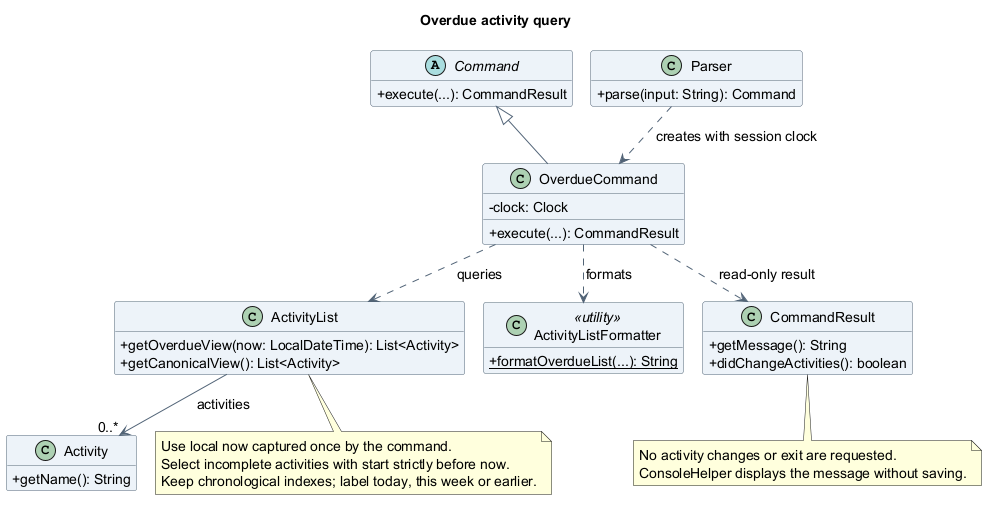
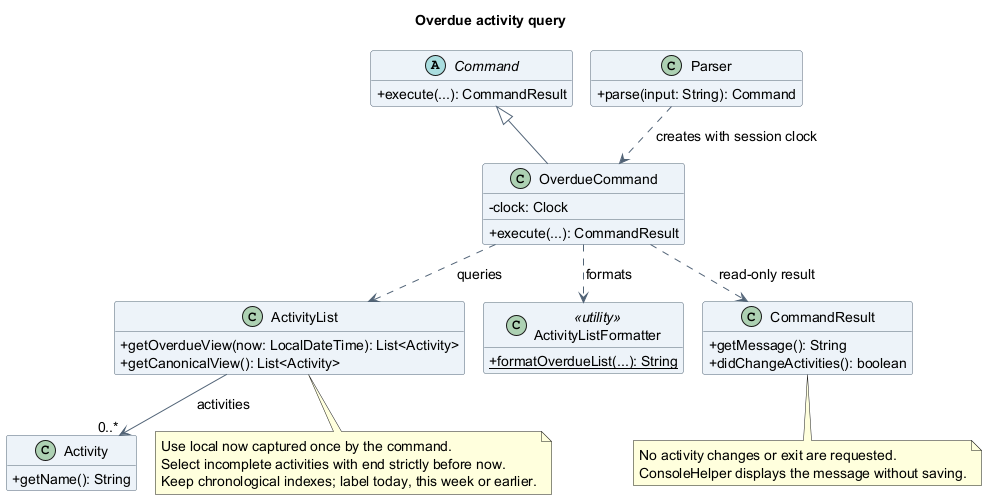
fix(overdue): wait until an activity has ended
Use the full end date and time for overdue filtering so ongoing activities are not labelled overdue. Preserve strict boundaries, completion filtering, and chronological indexes; cover exact-end and just-after-end cases and align help, guides, and rendered diagrams with the new rule.

diff --git a/src/test/java/seedu/unienable/command/activity/OverdueCommandTest.java b/src/test/java/seedu/unienable/command/activity/OverdueCommandTest.java
@@ -38,13 +38,14 @@ class OverdueCommandTest {
     };
 
     @Test
-    void execute_usesStrictStartBoundaryAndExcludesCompletedActivities() throws Exception {
+    void execute_usesStrictEndBoundaryAndExcludesCompletedActivities() throws Exception {
         add("Tomorrow", "2026-10-22", "09:00", 10);
         add("Sunday", "2026-10-18", "08:00", 9);
         add("Exact now", "2026-10-21", "12:00", 13);
         add("Monday", "2026-10-19", "08:00", 9);
         add("Today done", "2026-10-21", "09:00", 10);
-        add("Today past", "2026-10-21", "11:00", 12);
+        add("Today past", "2026-10-21", "10:30", 11);
+        add("Ending now", "2026-10-21", "11:00", 12);
         add("In progress", "2026-10-21", "11:30", 13);
         add("Future today", "2026-10-21", "13:00", 14);
         activities.getActivities().stream()
@@ -53,21 +54,36 @@ class OverdueCommandTest {
 
         String message = parser.parse("overdue").execute(activities, noWrites).getMessage();
 
-        assertTrue(message.startsWith("Overdue activities (started before now):"), message);
+        assertTrue(message.startsWith("Overdue activities (ended before now):"), message);
         assertTrue(message.contains("1. [OVERDUE EARLIER] Sunday (2026-10-18, 08:00-09:00)"),
                 message);
         assertTrue(message.contains("2. [OVERDUE WEEK] Monday (2026-10-19, 08:00-09:00)"),
                 message);
-        assertTrue(message.contains("4. [OVERDUE TODAY] Today past (2026-10-21, 11:00-12:00)"),
+        assertTrue(message.contains("4. [OVERDUE TODAY] Today past (2026-10-21, 10:30-11:00)"),
                 message);
-        assertTrue(message.contains("5. [OVERDUE TODAY] In progress (2026-10-21, 11:30-13:00)"),
-                message);
+        assertFalse(message.contains("In progress"), message);
+        assertFalse(message.contains("Ending now"), message);
         assertFalse(message.contains("Today done"), message);
         assertFalse(message.contains("Exact now"), message);
         assertFalse(message.contains("Future today"), message);
         assertFalse(message.contains("Tomorrow"), message);
         assertFalse(message.contains("[X]"), message);
         assertFalse(parser.parse("overdue").execute(activities, noWrites).didChangeActivities());
+    }
+
+    @Test
+    void execute_onlyBecomesOverdueAfterEndTime() throws Exception {
+        activities.addActivity(new Activity("Boundary", LocalDate.parse("2026-10-21"),
+                LocalTime.parse("09:00"), LocalTime.parse("09:30"), DemandLevel.LOW, false));
+        for (String time : new String[]{"09:15:00", "09:30:00", "09:30:01"}) {
+            Parser timed = new Parser(Clock.fixed(Instant.parse("2026-10-21T" + time + "Z"), ZoneOffset.UTC));
+            String message = timed.parse("overdue").execute(activities, noWrites).getMessage();
+            if (time.equals("09:30:01")) {
+                assertTrue(message.contains("1. [OVERDUE TODAY] Boundary"), message);
+            } else {
+                assertTrue(message.endsWith("[WARNING] No overdue activities."), message);
+            }
+        }
     }
 
     @Test

diff --git a/src/main/java/seedu/unienable/command/common/HelpCommand.java b/src/main/java/seedu/unienable/command/common/HelpCommand.java
@@ -28,7 +28,7 @@ public class HelpCommand extends Command {
               view today          Show today's schedule, summary, and rating table
               view tomorrow       Show tomorrow's schedule, summary, and rating table
               view week           Show today and the following six days
-              overdue             Show incomplete activities that have started
+              overdue             Show incomplete activities that have ended
               next                Show the earliest upcoming incomplete activity
 
             COMPLETION AND DELETION
@@ -167,14 +167,14 @@ public class HelpCommand extends Command {
                       view week
                     """.stripTrailing()),
             Map.entry("overdue", """
-                    OVERDUE - Find incomplete activities that have started
+                    OVERDUE - Find incomplete activities that have ended
 
                     Usage:
                       overdue
 
                     Details:
-                      - Shows incomplete activities with a start strictly before the current time.
-                      - Includes activities still in progress; excludes completed activities.
+                      - Shows incomplete activities with an end strictly before the current time.
+                      - Excludes ongoing and completed activities, including activities ending exactly now.
                       - Results use chronological indexes and labels for today, this week, or earlier.
                       - Accepts no arguments and does not mark or modify any activity.
 

diff --git a/src/main/java/seedu/unienable/model/ActivityList.java b/src/main/java/seedu/unienable/model/ActivityList.java
@@ -144,17 +144,17 @@ public class ActivityList {
 
     //@@author officialasyrafrahim
     /**
-     * Returns incomplete activities whose start is strictly before the supplied
+     * Returns incomplete activities whose end is strictly before the supplied
      * local time. The result keeps canonical order for stable chronological ties.
      *
-     * @param now local date and time used for the strict start boundary.
+     * @param now local date and time used for the strict end boundary.
      * @return immutable overdue view
      */
     public List<Activity> getOverdueView(LocalDateTime now) {
         Objects.requireNonNull(now);
         List<Activity> view = activities.stream()
                 .filter(activity -> !activity.isDone())
-                .filter(activity -> LocalDateTime.of(activity.getDate(), activity.getStartTime()).isBefore(now))
+                .filter(activity -> LocalDateTime.of(activity.getDate(), activity.getEndTime()).isBefore(now))
                 .sorted(CANONICAL_ORDER)
                 .toList();
         assert isSorted(view, CANONICAL_ORDER) : "Overdue view must stay in canonical order.";

diff --git a/src/test/java/seedu/unienable/ui/activity/ActivityListFormatterTest.java b/src/test/java/seedu/unienable/ui/activity/ActivityListFormatterTest.java
@@ -89,12 +89,12 @@ class ActivityListFormatterTest {
         String message = ActivityListFormatter.formatOverdueList(List.of(earlier, mondayGym, today),
                 canonicalView, LocalDateTime.parse("2026-10-13T12:00:00"));
 
-        assertEquals("Overdue activities (started before now):\n"
+        assertEquals("Overdue activities (ended before now):\n"
                 + "1. [OVERDUE EARLIER] Earlier (2026-10-05, 09:00-10:00) [LOW] [ ]\n"
                 + "2. [OVERDUE WEEK] Gym session (2026-10-12, 07:00-09:00) [HIGH] [ ]\n"
                 + "3. [OVERDUE TODAY] Today (2026-10-13, 09:00-10:00) [LOW] [ ]",
                 message);
-        assertEquals("Overdue activities (started before now):\n[WARNING] No overdue activities.",
+        assertEquals("Overdue activities (ended before now):\n[WARNING] No overdue activities.",
                 ActivityListFormatter.formatOverdueList(List.of(), canonicalView,
                         LocalDateTime.parse("2026-10-13T12:00:00")));
     }

diff --git a/src/test/java/seedu/unienable/command/common/HelpCommandTest.java b/src/test/java/seedu/unienable/command/common/HelpCommandTest.java
@@ -67,7 +67,7 @@ class HelpCommandTest {
             {"find", "find KEYWORD", "literal substring", "find project meeting"},
             {"list", "list priority", "list demand groups HIGH, MEDIUM, then LOW", "list demand"},
             {"view", "view week", "today and the following six days", "view tomorrow"},
-            {"overdue", "overdue", "start strictly before the current time", "overdue"},
+            {"overdue", "overdue", "end strictly before the current time", "overdue"},
             {"next", "next", "start is strictly after the current time", "next"},
             {"mark", "mark INDEX", "already completed activity warns", "mark 1"},
             {"unmark", "unmark INDEX", "already incomplete activity warns", "unmark 1"},

diff --git a/src/main/java/seedu/unienable/ui/activity/ActivityListFormatter.java b/src/main/java/seedu/unienable/ui/activity/ActivityListFormatter.java
@@ -22,7 +22,7 @@ public final class ActivityListFormatter {
 
     private static final String PRIORITY_LIST_HEADING = "Activities by priority (highest first):";
 
-    private static final String OVERDUE_LIST_HEADING = "Overdue activities (started before now):";
+    private static final String OVERDUE_LIST_HEADING = "Overdue activities (ended before now):";
 
     private static final String NEXT_HEADING = "Next activity (earliest upcoming):";
 

diff --git a/src/main/java/seedu/unienable/command/activity/OverdueCommand.java b/src/main/java/seedu/unienable/command/activity/OverdueCommand.java
@@ -15,7 +15,7 @@ import seedu.unienable.storage.Storage;
 import seedu.unienable.ui.activity.ActivityListFormatter;
 
 /**
- * Lists incomplete activities whose start is strictly before the current local
+ * Lists incomplete activities whose end is strictly before the current local
  * time, in chronological order with labels for today, this week, and earlier.
  */
 public class OverdueCommand extends Command {

diff --git a/docs/UserGuide.md b/docs/UserGuide.md
@@ -615,23 +615,23 @@ Indexes refer to the chronological 'list' order.
 
 ### Viewing overdue activities: `overdue`
 
-`overdue` shows incomplete activities whose start is strictly before the current
-local time. An activity that has started but not ended is included. Completed
-activities and activities starting exactly now or later are excluded.
+`overdue` shows incomplete activities whose end is strictly before the current
+local time. Ongoing and completed activities are excluded. An activity ending
+exactly now becomes overdue only after that time has passed.
 
 Each row keeps its chronological `list` index and adds one label:
 
 | Label | Meaning |
 | --- | --- |
-| `OVERDUE TODAY` | Starts earlier today. |
-| `OVERDUE WEEK` | Starts on an earlier day in the current Monday-to-Sunday week. |
-| `OVERDUE EARLIER` | Starts before the current week's Monday. |
+| `OVERDUE TODAY` | Ended earlier today. |
+| `OVERDUE WEEK` | Ended on an earlier day in the current Monday-to-Sunday week. |
+| `OVERDUE EARLIER` | Ended before the current week's Monday. |
 
 Using the same five-activity schedule, assume the current local time is
-2026-12-04 at 15:00. The containing week starts on Monday, 2026-11-30:
+2026-12-04 at 15:01. The containing week starts on Monday, 2026-11-30:
 
 ```text
-Overdue activities (started before now):
+Overdue activities (ended before now):
 1. [OVERDUE WEEK] CS2113 tutorial (2026-12-01, 10:00-11:00) [MEDIUM] [ ]
 2. [OVERDUE WEEK] Project meeting (2026-12-02, 14:00-15:00) [HIGH] [ ]
 3. [OVERDUE WEEK] Planning and/or review (2026-12-03, 10:00-11:00) [LOW] [ ]
@@ -647,7 +647,7 @@ the current local time. Activities starting exactly now and completed activities
 are skipped. Equal starts keep add order, and the row keeps its chronological
 `list` index.
 
-At the same assumed local time, 2026-12-04 at 15:00, with the same five activities:
+At the same assumed local time, 2026-12-04 at 15:01, with the same five activities:
 
 ```text
 Next activity (earliest upcoming):
@@ -663,7 +663,9 @@ For an incomplete activity scheduled 09:00-09:30 on the current date:
 | --- | --- | --- |
 | 08:59 | No | Yes, if it is the earliest future incomplete activity. |
 | Exactly 09:00 | No | No. |
-| 09:15 | Yes, even though it is still in progress. | No. |
+| 09:15 | No; the activity is ongoing. | No. |
+| Exactly 09:30 | No. | No. |
+| 09:31 | Yes, if still incomplete. | No. |
 
 A completed activity appears in neither time query. At its exact start, an
 incomplete activity appears in neither query; it remains visible in `list`.
@@ -936,7 +938,7 @@ Use `help TOPIC` with any command name below for detailed instructions, such as
 | `find KEYWORD` | Search activity names and retain chronological list indexes |
 | `list priority` | View all activities by combined priority score |
 | `view today` / `view tomorrow` / `view week` | Show today's, tomorrow's, or the next seven days' dashboard |
-| `overdue` / `next` | View incomplete activities that started before now / the earliest upcoming incomplete activity |
+| `overdue` / `next` | View incomplete activities that ended before now / the earliest upcoming incomplete activity |
 | `mark INDEX` / `unmark INDEX` / `delete INDEX` | Change completion / delete |
 | `facility list` / `facility LOCATION` | View all facilities / one facility |
 | `facility find type/FEATURE [status/YES\|NO\|UNKNOWN]` | Search recorded features |

diff --git a/docs/DeveloperGuide.md b/docs/DeveloperGuide.md
@@ -677,8 +677,8 @@ Source: [ListPrioritySequence.puml](diagrams/asyraf/sequence/ListPrioritySequenc
 #### Overdue activities
 
 `overdue` captures `LocalDateTime.now(clock)` once and selects incomplete
-activities whose start is strictly before that instant. Activities starting
-exactly now are excluded. Results retain chronological order and full-list indexes.
+activities whose end is strictly before that instant. Ongoing activities and
+activities ending exactly now are excluded. Results retain chronological order and full-list indexes.
 
 `formatOverdueList()` uses the same captured time to label activities as today,
 earlier in the current Monday-to-Sunday week, or earlier. An empty result displays
@@ -1634,7 +1634,7 @@ The final argument is the simulated local date/time in `Asia/Singapore`.
 For the priority scenario, enter `list priority`, `overdue`, `next`,
 `mark 3`, `next`, and `bye`. For the strict-boundary table, replace the last
 two arguments with `docs/testing/fixtures/boundary.txt 2026-11-22T08:59`, then
-repeat at `2026-11-22T09:00` and `2026-11-22T09:15`, entering `overdue`,
+repeat at `2026-11-22T09:00`, `2026-11-22T09:15`, and `2026-11-22T09:31`, entering `overdue`,
 `next`, and `bye` each time. For calendar dashboards, use
 `docs/testing/fixtures/calendar.txt 2026-10-25T12:00` and enter `view today`,
 `view tomorrow`, `view week`, `help view`, and `bye`.
@@ -1766,7 +1766,9 @@ For one incomplete activity on the same date at 09:00-09:30, check these clocks:
 | --- | --- | --- |
 | 08:59 | Empty | That activity. |
 | Exactly 09:00 | Empty | Empty. |
-| 09:15 | That activity with `OVERDUE TODAY`. | Empty. |
+| 09:15 | Empty; the activity is ongoing. | Empty. |
+| Exactly 09:30 | Empty. | Empty. |
+| 09:31 | That activity with `OVERDUE TODAY`. | Empty. |
 
 Repeat with the activity completed: both time queries are empty. Check
 Sunday/Monday, December/January and local-midnight boundaries with a non-UTC clock.
